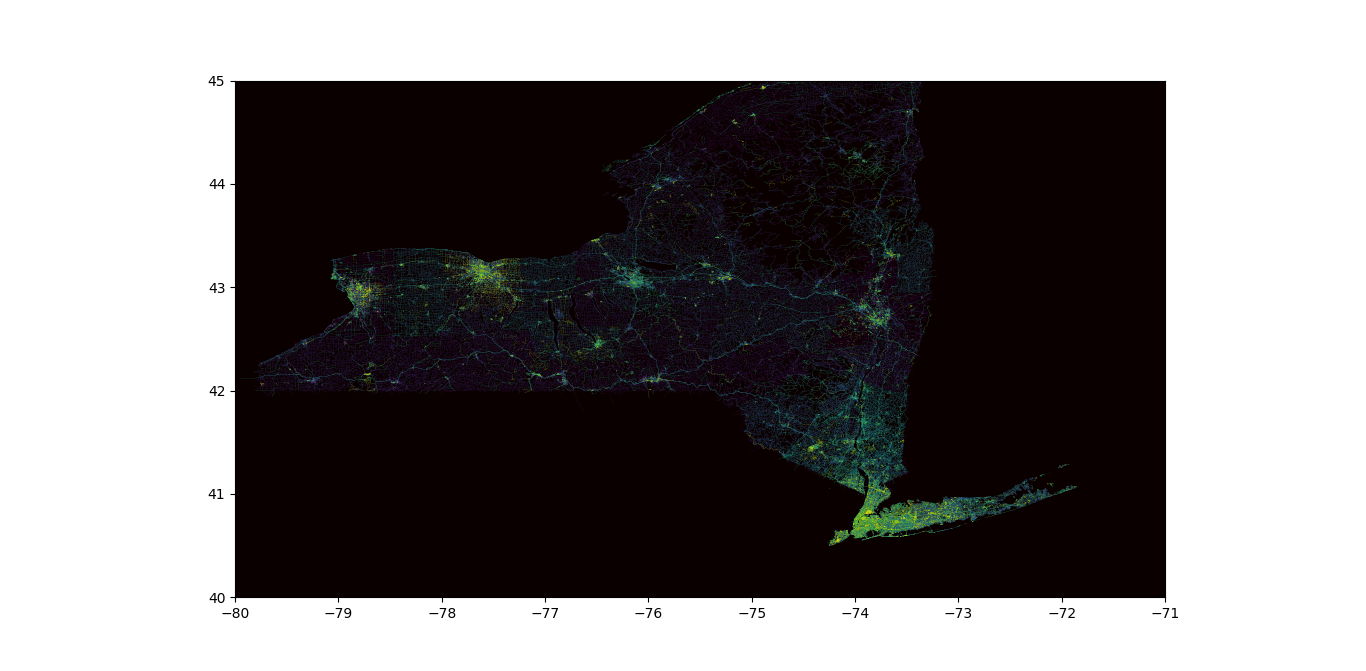
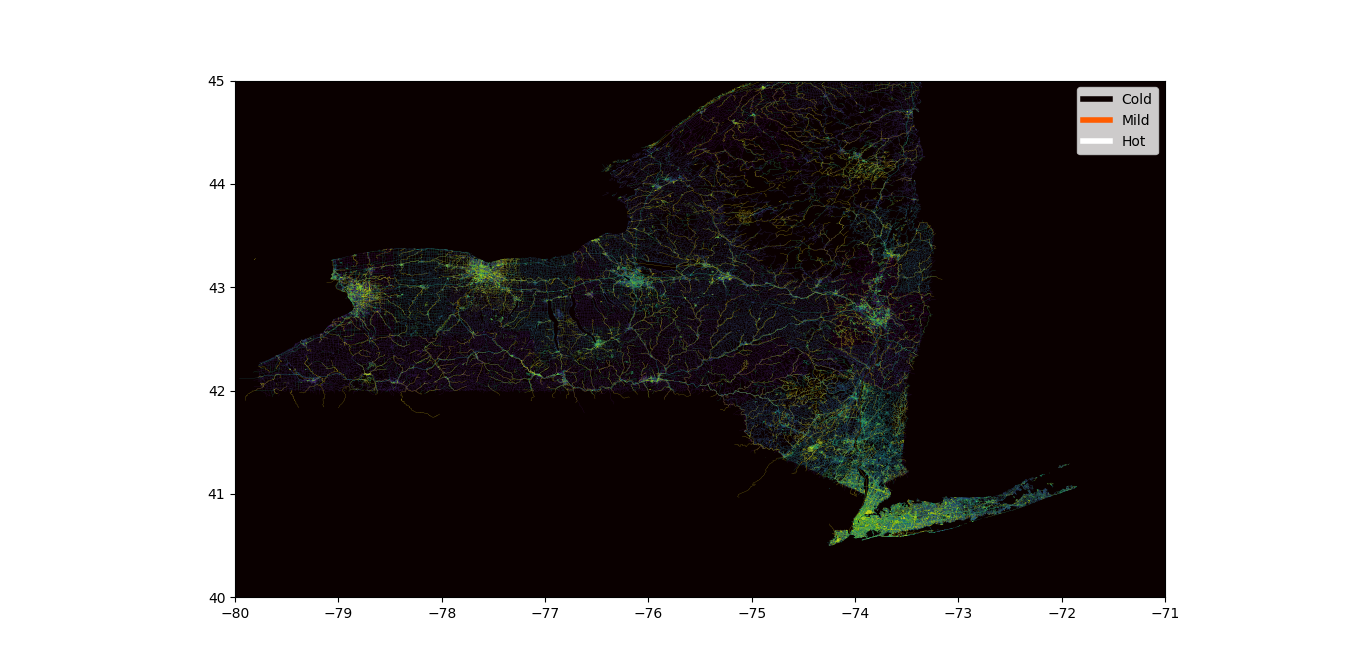
Added Legend

diff --git a/main.py b/main.py
@@ -3,12 +3,26 @@ import pandas as pd
 import matplotlib.pyplot as plt
 import numpy as np
 from scipy.interpolate import griddata
+from matplotlib.lines import Line2D
 import os
 
 
 def getMap():
-    file = os.getcwd() + "\\new york data\\gis_osm_roads_free_1.shp"
-    gdf = gpd.read_file(file)
+    filesDir = os.getcwd() + "\\new york data\\"
+
+    files = []
+    for i in os.listdir(filesDir):
+        if i.endswith('.shp'):
+            files.append(os.path.join(filesDir, i))
+
+    data = []
+    for filename in files:
+        file = filename.split("\\")[-1]
+        if (file == "gis_osm_roads_free_1.shp" or file == "gis_osm_waterways_free_1.shp" 
+            or file == "gis_osm_railways_free_1"):
+            data.append(gpd.read_file(filename))
+
+    gdf = pd.concat(data, sort=True)
     return gdf
 
 
@@ -23,9 +37,7 @@ weatherData.append([pd.read_csv("weather data\\USW00014768.csv"), [43.1167,-77.6
 
 x = [data[1][1] for data in weatherData]
 y = [data[1][0] for data in weatherData]
-#plt.plot(x, y, 'ro')
 
-#####
 
 def getTemp(points, weatherData):
     temp = []
@@ -52,4 +64,9 @@ values = getTemp(points, weatherData)
 interpolated = griddata(points, values, (grid_x, grid_y), method='nearest')
 plt.imshow(interpolated.T, extent=(-80, -71, 40, 45), origin='lower', cmap="hot")
 
+cmap = plt.cm.hot
+custom_lines = [Line2D([0], [0], color=cmap(0.0), lw=4),
+                Line2D([0], [0], color=cmap(0.5), lw=4),
+                Line2D([0], [0], color=cmap(1.0), lw=4)]
+plt.legend(custom_lines, ['Cold', 'Mild', 'Hot'])
 plt.show()
